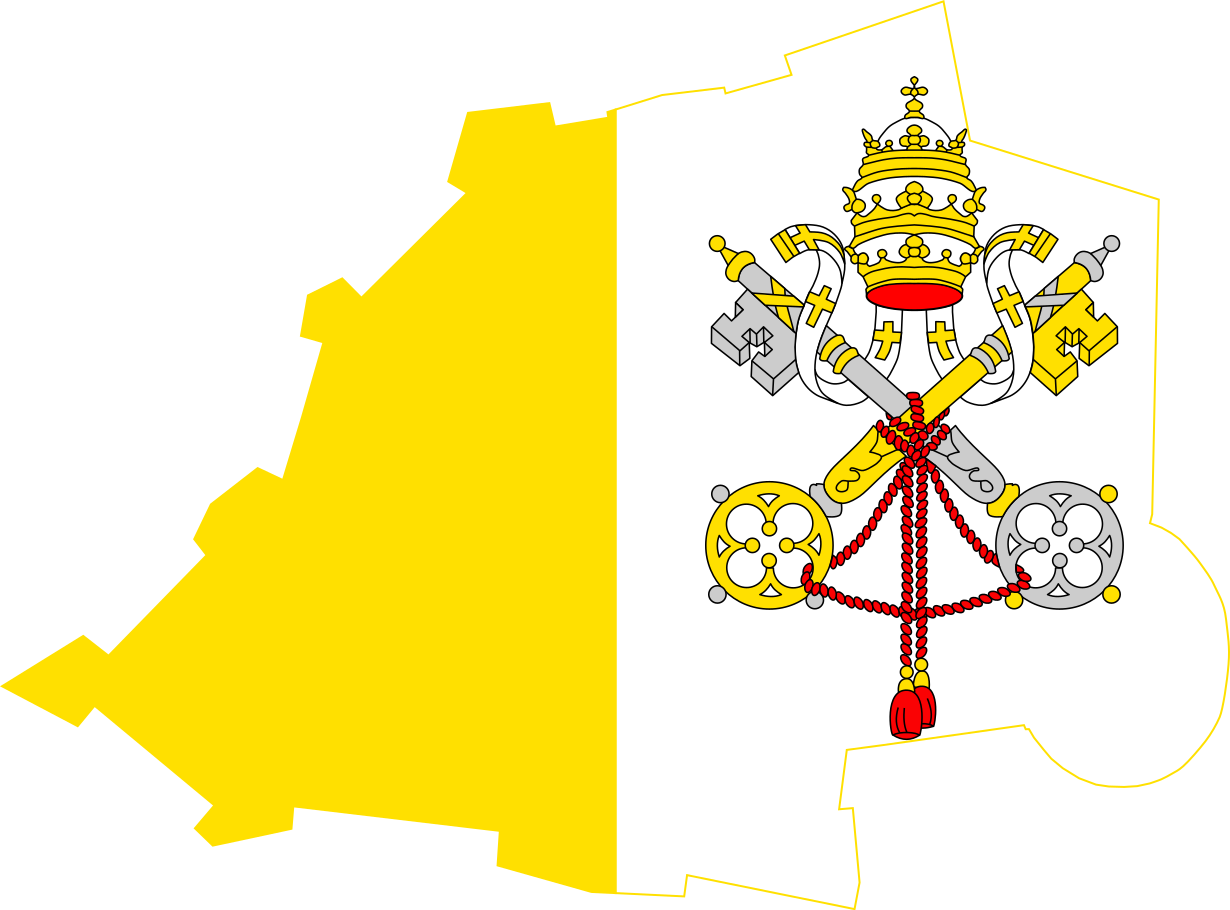
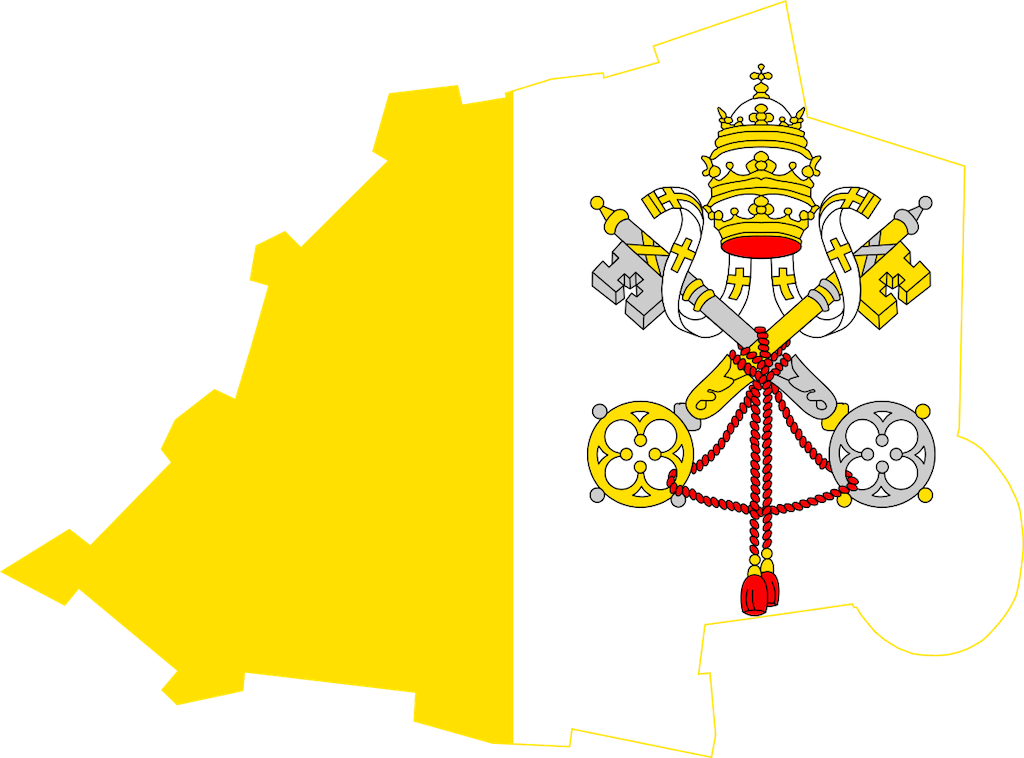
almost done

Changed region(s): [[0.5625, 0.091, 0.9062, 0.8193]]

diff --git a/index.html b/index.html
@@ -131,13 +131,22 @@
                 <div class="bottom-buttons">
                     <button id="backToInitial">BACK</button>
                 </div>
+                <div class="credits white">
+                    <h3>Credits:</h3>
+                    <a href="https://github.com/GuiLLeMet85/ih-project1-template/projects/1">
+                        <p>Guillem Baracco</p>
+                    </a>
+                </div>
             </div>
 
+
         </div>
-        <script src="js/assets.js"></script>
-        <script src="js/maps.js"></script>
-        <script src="js/game.js"></script>
-        <script src="js/scripts.js"></script>
+
+    </div>
+    <script src="js/assets.js"></script>
+    <script src="js/maps.js"></script>
+    <script src="js/game.js"></script>
+    <script src="js/scripts.js"></script>
 </body>
 
 </html>

diff --git a/css/style.css b/css/style.css
@@ -235,7 +235,7 @@ article {
 }
 
 #solve-page .map-picture {
-    width: 50%;
+    width: 40%;
 }
 
 .map-picture:hover {
@@ -285,6 +285,10 @@ li {
 span {
     mix-blend-mode: none;
     display: block;
+}
+
+a {
+    text-decoration: none;
 }
 
 
@@ -473,7 +477,7 @@ button:hover:after {
 }
 
 #solve-page .counter-zone {
-    width: 50%;
+    width: 60%;
     z-index: 1;
 }
 
